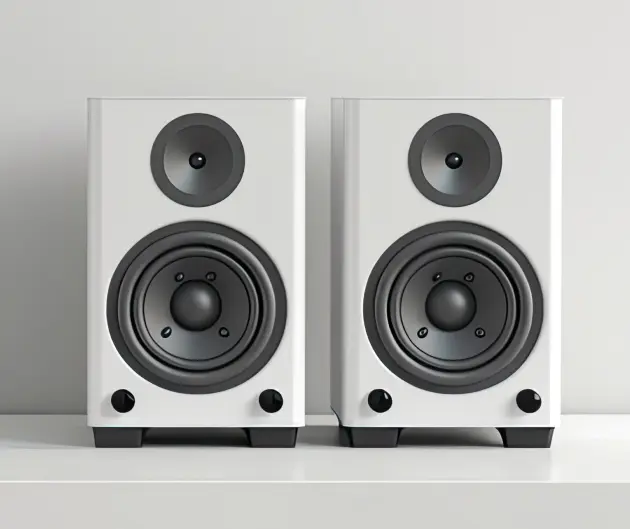
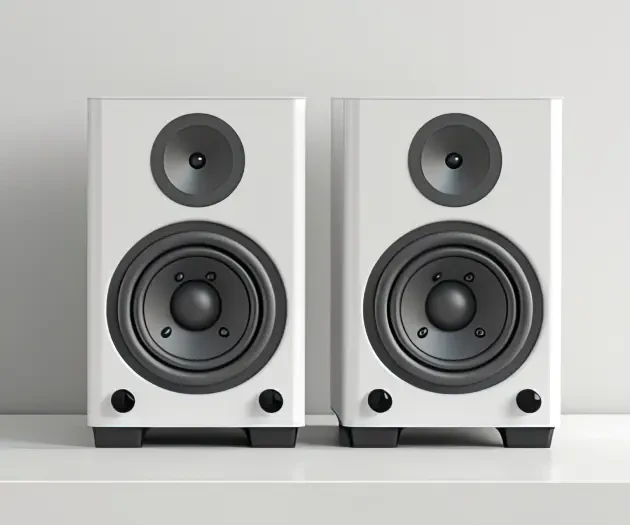
исправлена вёрстка блока solution

diff --git a/src/styles/hero.css b/src/styles/hero.css
@@ -53,9 +53,8 @@
 }
 
 @media (max-width: 1100px) {
-    .hero {
-        background-image: none;
-        border-radius: 0;
+    .ready-bg {
+        background: none;
         height: auto;
     }
 
